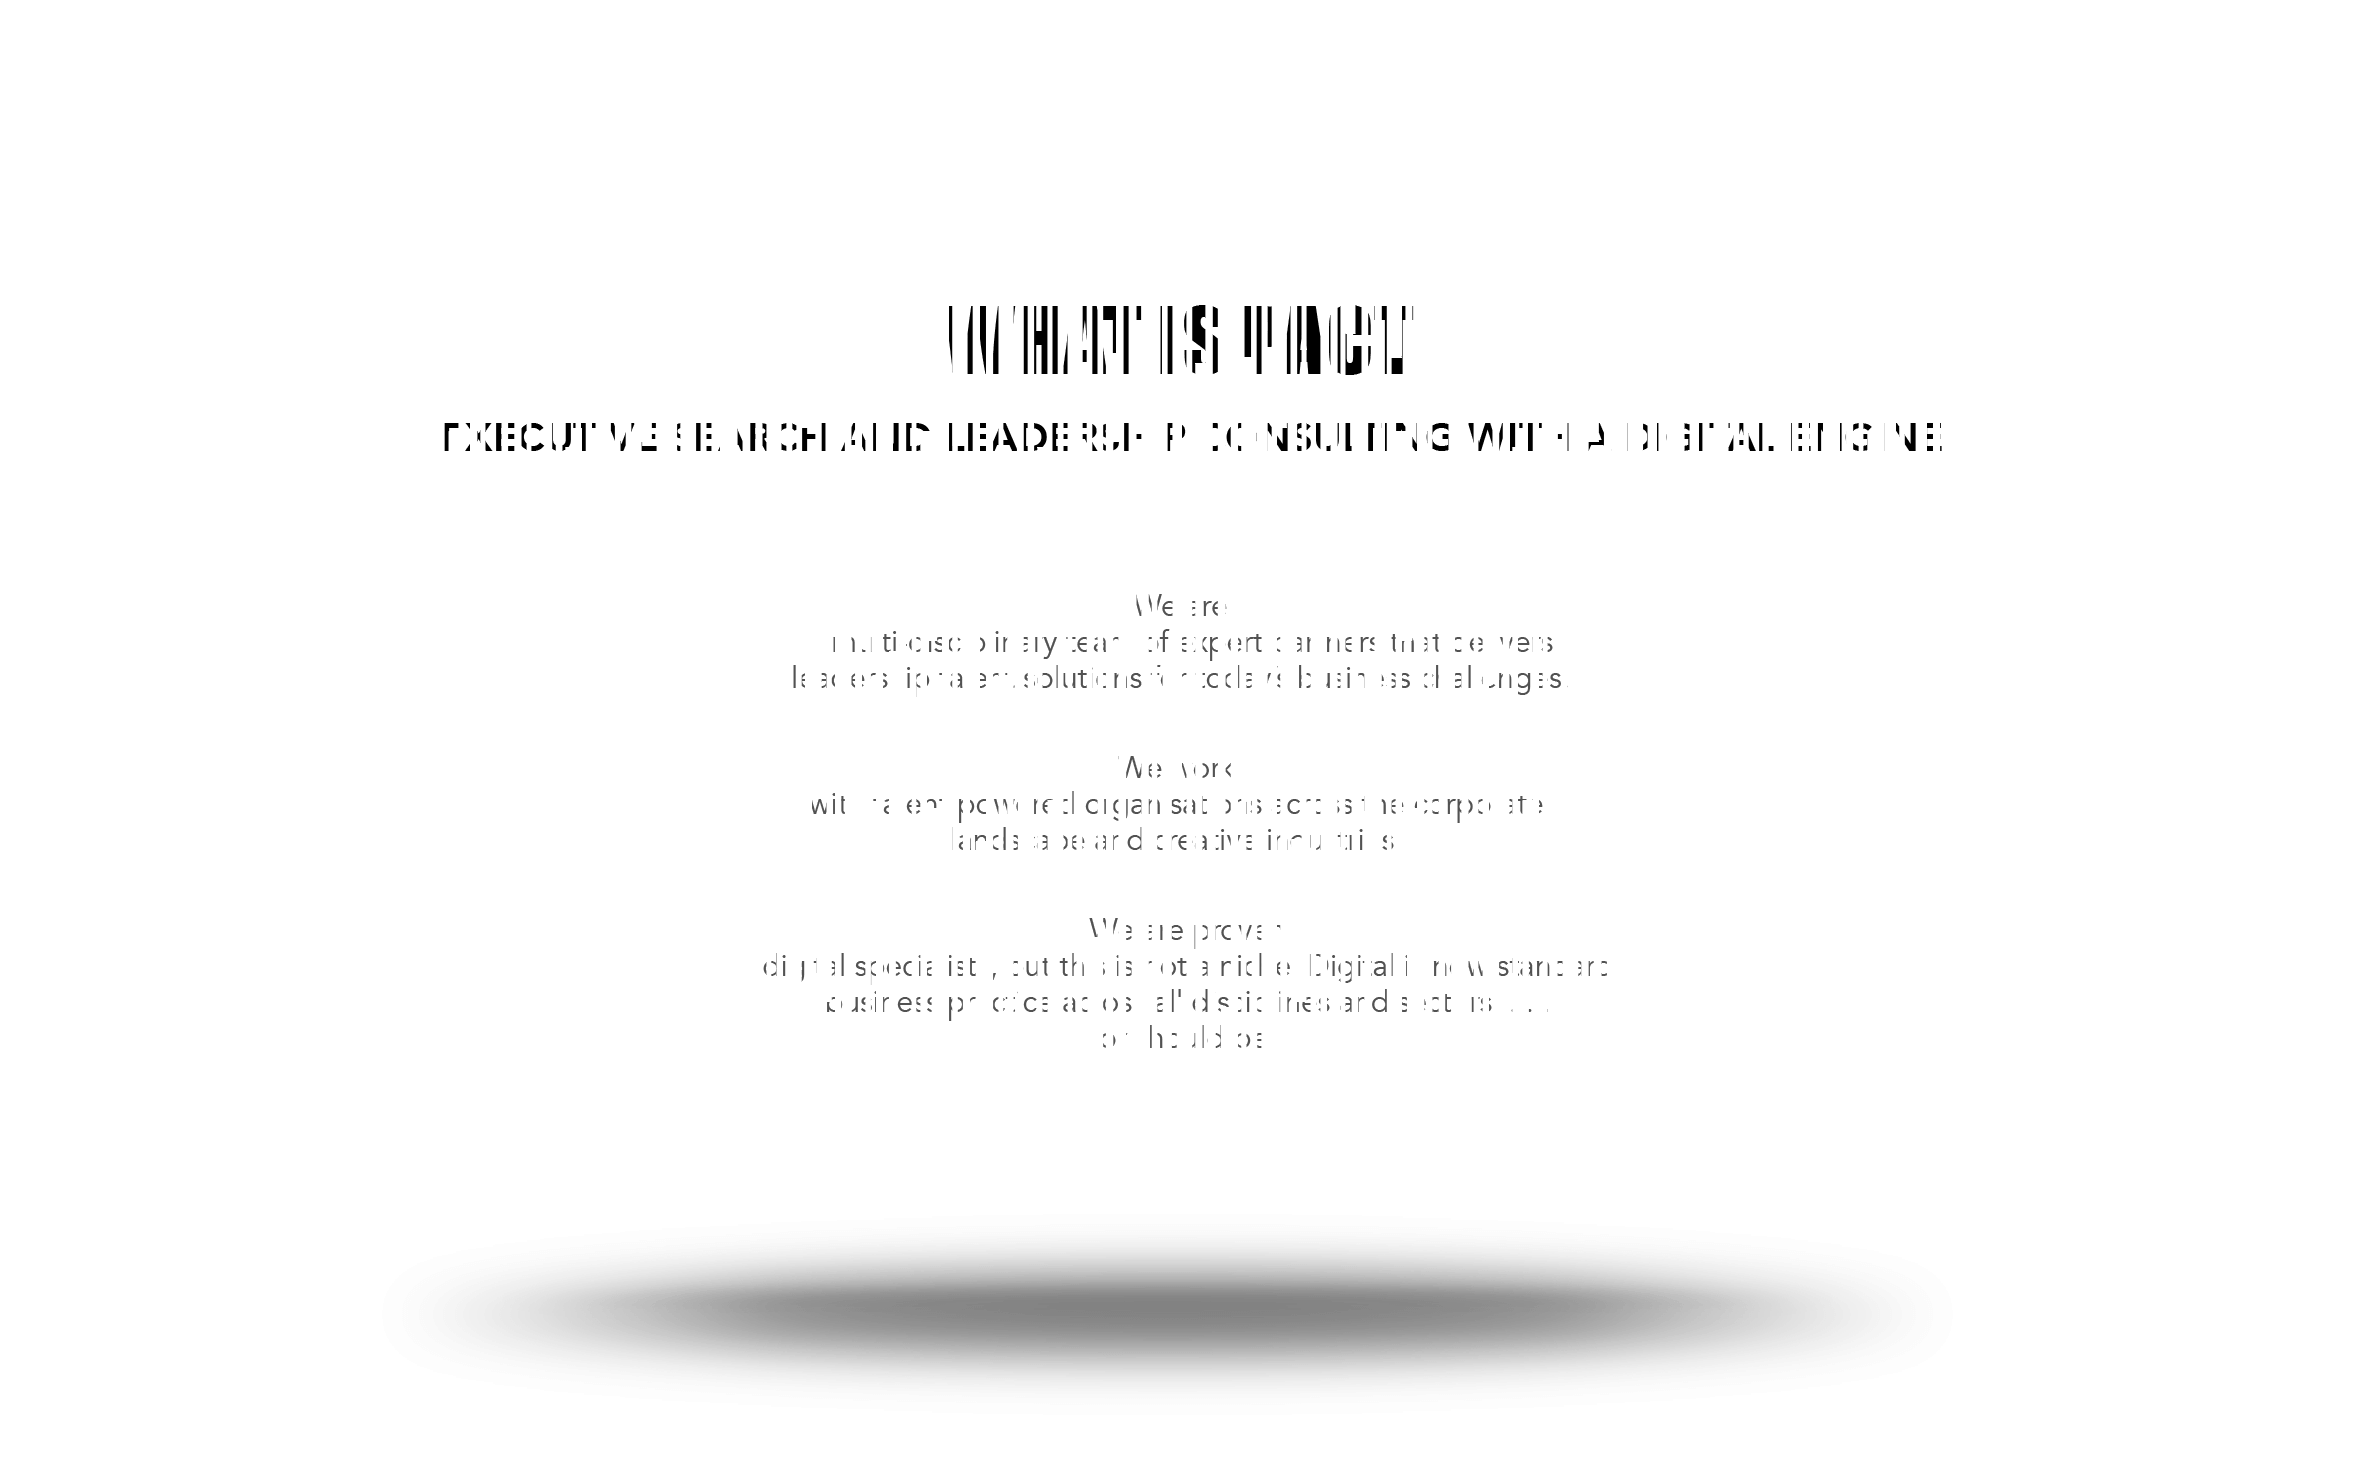
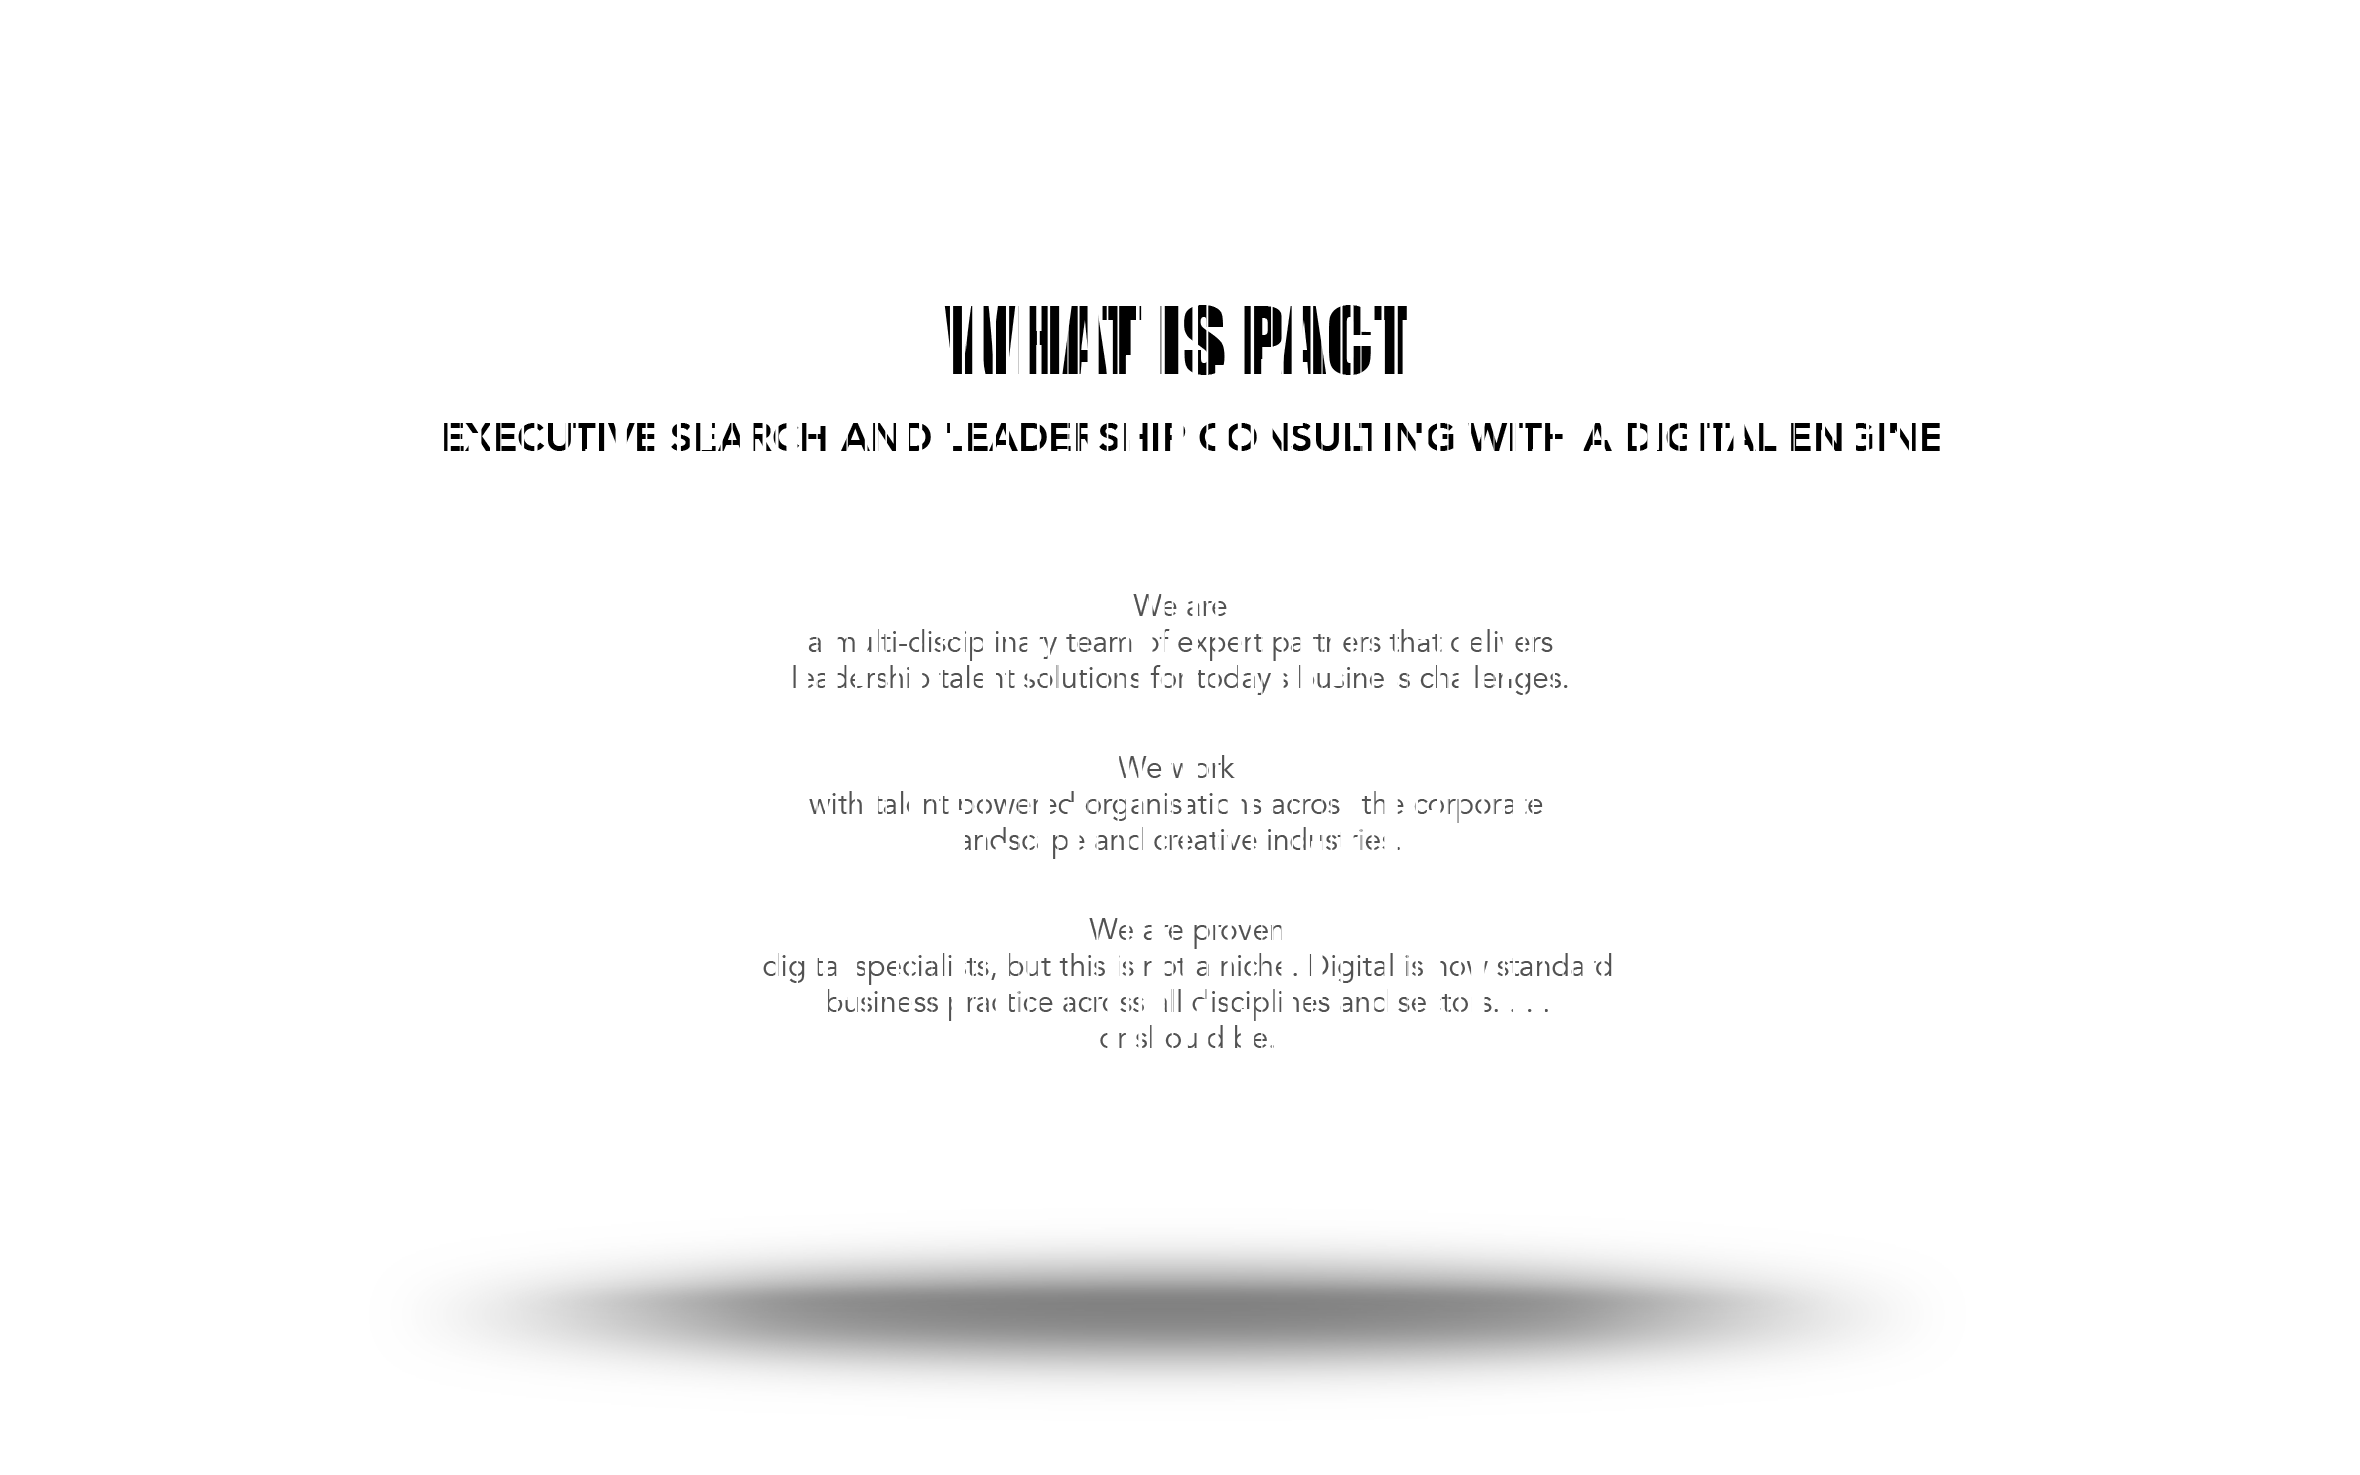
Changed site to only show 2360px images + New images + Compressed + Mousewheel/scroll sensitivity increased

diff --git a/index.html b/index.html
@@ -141,14 +141,8 @@
 				<picture data-stellar-ratio="0.8" style="margin-top:-2vw; margin-left:-38px;">
 				<source media="(min-width: 1025px)"
 				srcset="
-				img/1024/pact-logo-1024-1.png 1024w,
-				img/1280/pact-logo-1280-1.png 1280w,
-				img/1600/pact-logo-1600-1.png 1600w,
 				img/2360/pact-logo-2360-1.png 2360w"
 				sizes="
-				(max-width: 1025px) 100vw,
-				(max-width: 1280px) 100vw,  
-				(max-width: 1600px) 100vw, 
 				(max-width: 2360) 100vw">
 				<img style="width:100vw;">
 				</picture>
@@ -157,14 +151,8 @@
 				<picture data-stellar-ratio="1.0" style="margin-top:-2vw; margin-left:-38px;">
 				<source media="(min-width: 1025px)" 
 				srcset="
-				img/1024/pact-logo-1024-2.png 1024w,
-				img/1280/pact-logo-1280-2.png 1280w,
-				img/1600/pact-logo-1600-2.png 1600w,
 				img/2360/pact-logo-2360-2.png 2360w"
 				sizes="
-				(max-width: 1025px) 100vw, 
-				(max-width: 1280px) 100vw,
-				(max-width: 1600px) 100vw, 
 				(max-width: 2360) 100vw">
 				<img style="width:100vw;">
 				</picture>
@@ -179,14 +167,8 @@
 				<picture data-stellar-ratio="0.8" style="margin-left:-46px;">
 				<source media="(min-width: 1025px)" 
 				srcset="
-				img/1024/what-is-pact-1024-1.png 1024w,
-				img/1280/what-is-pact-1280-1.png 1280w,
-				img/1600/what-is-pact-1600-1.png 1600w,
 				img/2360/what-is-pact-2360-1.png 2360w"
 				sizes="
-				(max-width: 1025px) 80vw, 
-				(max-width: 1280px) 80vw,
-				(max-width: 1600px) 80vw, 
 				(max-width: 2360) 80vw">
 				<img style="width:100vw;">
 				</picture>
@@ -195,14 +177,8 @@
 				<picture data-stellar-ratio="1.2" style="margin-left:-46px;">
 				<source media="(min-width: 1025px)" 
 				srcset="				
-				img/1024/what-is-pact-1024-2.png 1024w,
-				img/1280/what-is-pact-1280-2.png 1280w,
-				img/1600/what-is-pact-1600-2.png 1600w,
 				img/2360/what-is-pact-2360-2.png 2360w"
 				sizes="
-				(max-width: 1025px) 80vw,
-				(max-width: 1280px) 80vw, 
-				(max-width: 1600px) 80vw, 
 				(max-width: 2360) 80vw">
 				<img style="width:100vw;">
 				</picture>
@@ -218,14 +194,8 @@
 				<picture data-stellar-ratio="1.2">
 				<source media="(min-width: 1025px)" 
 				srcset="
-				img/1024/what-we-do-1024-1.png 1024w,
-				img/1280/what-we-do-1280-1.png 1280w,
-				img/1600/what-we-do-1600-1.png 1600w,
 				img/2360/what-we-do-2360-1.png 2360w"
 				sizes="
-				(max-width: 1025px) 80vw,
-				(max-width: 1280px) 80vw,  
-				(max-width: 1600px) 80vw, 
 				(max-width: 2360) 80vw">
 				<img style="width:100vw;">
 				</picture>
@@ -234,14 +204,8 @@
 				<picture data-stellar-ratio="1.0">
 				<source media="(min-width: 1025px)" 
 				srcset="
-				img/1024/what-we-do-1024-2.png 1024w,
-				img/1280/what-we-do-1280-2.png 1280w,
-				img/1600/what-we-do-1600-2.png 1600w,
 				img/2360/what-we-do-2360-2.png 2360w"
 				sizes="
-				(max-width: 1025px) 80vw,
-				(max-width: 1280px) 80vw, 
-				(max-width: 1600px) 80vw, 
 				(max-width: 2360) 80vw">
 				<img style="width:100vw;">
 				</picture>
@@ -257,14 +221,10 @@
 				<picture data-stellar-ratio="1.2" style="margin-left:-38px;">
 				<source media="(min-width: 1025px)" 
 				srcset="
-				img/1024/who-we-are-1024-1.png 1024w,
-				img/1280/who-we-are-1280-1.png 1280w,
-				img/1600/who-we-are-1600-1.png 1600w,
+
 				img/2360/who-we-are-2360-1.png 2360w"
 				sizes="
-				(max-width: 1025px) 80vw,
-				(max-width: 1280px) 80vw, 
-				(max-width: 1600px) 80vw, 
+
 				(max-width: 2360) 80vw">
 				<img style="width:100vw;">
 				</picture>
@@ -273,14 +233,10 @@
 				<picture data-stellar-ratio="1.0" style="margin-left:-38px;">
 				<source media="(min-width: 1025px)" 
 				srcset="
-				img/1024/who-we-are-1024-2.png 1024w,
-				img/1280/who-we-are-1280-2.png 1280w,
-				img/1600/who-we-are-1600-2.png 1600w,
+
 				img/2360/who-we-are-2360-2.png 2360w"
 				sizes="
-				(max-width: 1025px) 80vw,
-				(max-width: 1280px) 80vw, 
-				(max-width: 1600px) 80vw, 
+
 				(max-width: 2360) 80vw">
 				<img style="width:100vw;">
 				</picture>
@@ -546,14 +502,8 @@
 				<picture class="bgimgs png" data-stellar-ratio="0.8" style="margin-left:-58px;">
 					<source media="(min-width: 1025px)" 
 					srcset="
-					img/1024/why-pact-1024-1.png 1024w,
-					img/1280/why-pact-1280-1.png 1280w,
-					img/1600/why-pact-1600-1.png 1600w,
 					img/2360/why-pact-2360-1.png 2360w"
 					sizes="
-					(max-width: 1025px) 80vw,
-					(max-width: 1280px) 80vw, 
-					(max-width: 1600px) 80vw, 
 					(max-width: 2360) 80vw">
 					<img style="width:100vw;">
 				</picture>
@@ -561,14 +511,8 @@
 				<picture class="bgimgs png" data-stellar-ratio="1.2" style="margin-left:-58px;">
 					<source media="(min-width: 1025px)" 
 					srcset="
-					img/1024/why-pact-1024-2.png 1024w,
-					img/1280/why-pact-1280-2.png 1280w,
-					img/1600/why-pact-1600-2.png 1600w,
 					img/2360/why-pact-2360-2.png 2360w"
 					sizes="
-					(max-width: 1025px) 80vw,
-					(max-width: 1280px) 80vw,  
-					(max-width: 1600px) 80vw, 
 					(max-width: 2360) 80vw">
 					<img style="width:100vw;">
 				</picture>
@@ -598,13 +542,8 @@
 				<picture class="bgimgs png" data-stellar-ratio="0.8"  style="margin-left:-45px;">
 				<source media="(min-width: 1025px)" 
 				srcset="
-				img/1024/philosophy-1024-1.png 1024w,
-				img/1280/philosophy-1280-1.png 1280w,
-				img/1600/philosophy-1600-1.png 1600w,
 				img/2360/philosophy-2360-1.png 2360w"
 				sizes="
-				(max-width: 1280px) 80vw, 
-				(max-width: 1600px) 80vw, 
 				(max-width: 2360) 80vw">
 				<img style="width:100vw;">
 				</picture>
@@ -613,13 +552,8 @@
 				<picture class="bgimgs png" data-stellar-ratio="1.2"  style="margin-left:-45px;">
 				<source media="(min-width: 1025px)" 
 				srcset="
-				img/1024/philosophy-1024-2.png 1024w,
-				img/1280/philosophy-1280-2.png 1280w,
-				img/1600/philosophy-1600-2.png 1600w,
 				img/2360/philosophy-2360-2.png 2360w"
 				sizes="
-				(max-width: 1280px) 80vw,  
-				(max-width: 1600px) 80vw, 
 				(max-width: 2360) 80vw">
 				<img style="width:100vw;">
 				</picture>

diff --git a/bundle.js b/bundle.js
@@ -229,7 +229,7 @@ var minWidth = 1025;
 if ($(window).width() >= minWidth) {
 $(function() {
 	$("html, body").mousewheel(function(event, delta) {
-		this.scrollLeft -= (delta * 0.6);
+		this.scrollLeft -= (delta * 2.5);
 		event.preventDefault();
 	});
 });
@@ -330,10 +330,10 @@ var parallaxScroll = {
 				} else {
 					$('html,body').animate({
 						scrollLeft: $activeSection.offset().left - 40
-					}, 600, 'easeInOutSine', function() {
+					}, 400, 'easeInOutSine', function() {
 						setTimeout(function(){
-							$(window).unbind('scroll.stellarsite').bind('scroll.stellarsite', debounce(handleScroll, 1400));
-						}, 600);
+							$(window).unbind('scroll.stellarsite').bind('scroll.stellarsite', debounce(handleScroll, 1200));
+						}, 400);
 					});
 				}	
 				$(window).bind('mousewheel', function(){
@@ -341,7 +341,7 @@ var parallaxScroll = {
 				});
 			};
 		if (window.location.href.indexOf('#show-offset-parents-default') === -1) {
-			$(window).bind('scroll.stellarsite', debounce(handleScroll, 1150));
+			$(window).bind('scroll.stellarsite', debounce(handleScroll, 1250));
 		}
 	}
 };

diff --git a/css.css b/css.css
@@ -135,6 +135,7 @@ body, html {
     height: 100%;
     width: 10200px;
     overflow-y: hidden;
+    overflow-x:hidden;
 }
 
 .home .section {
